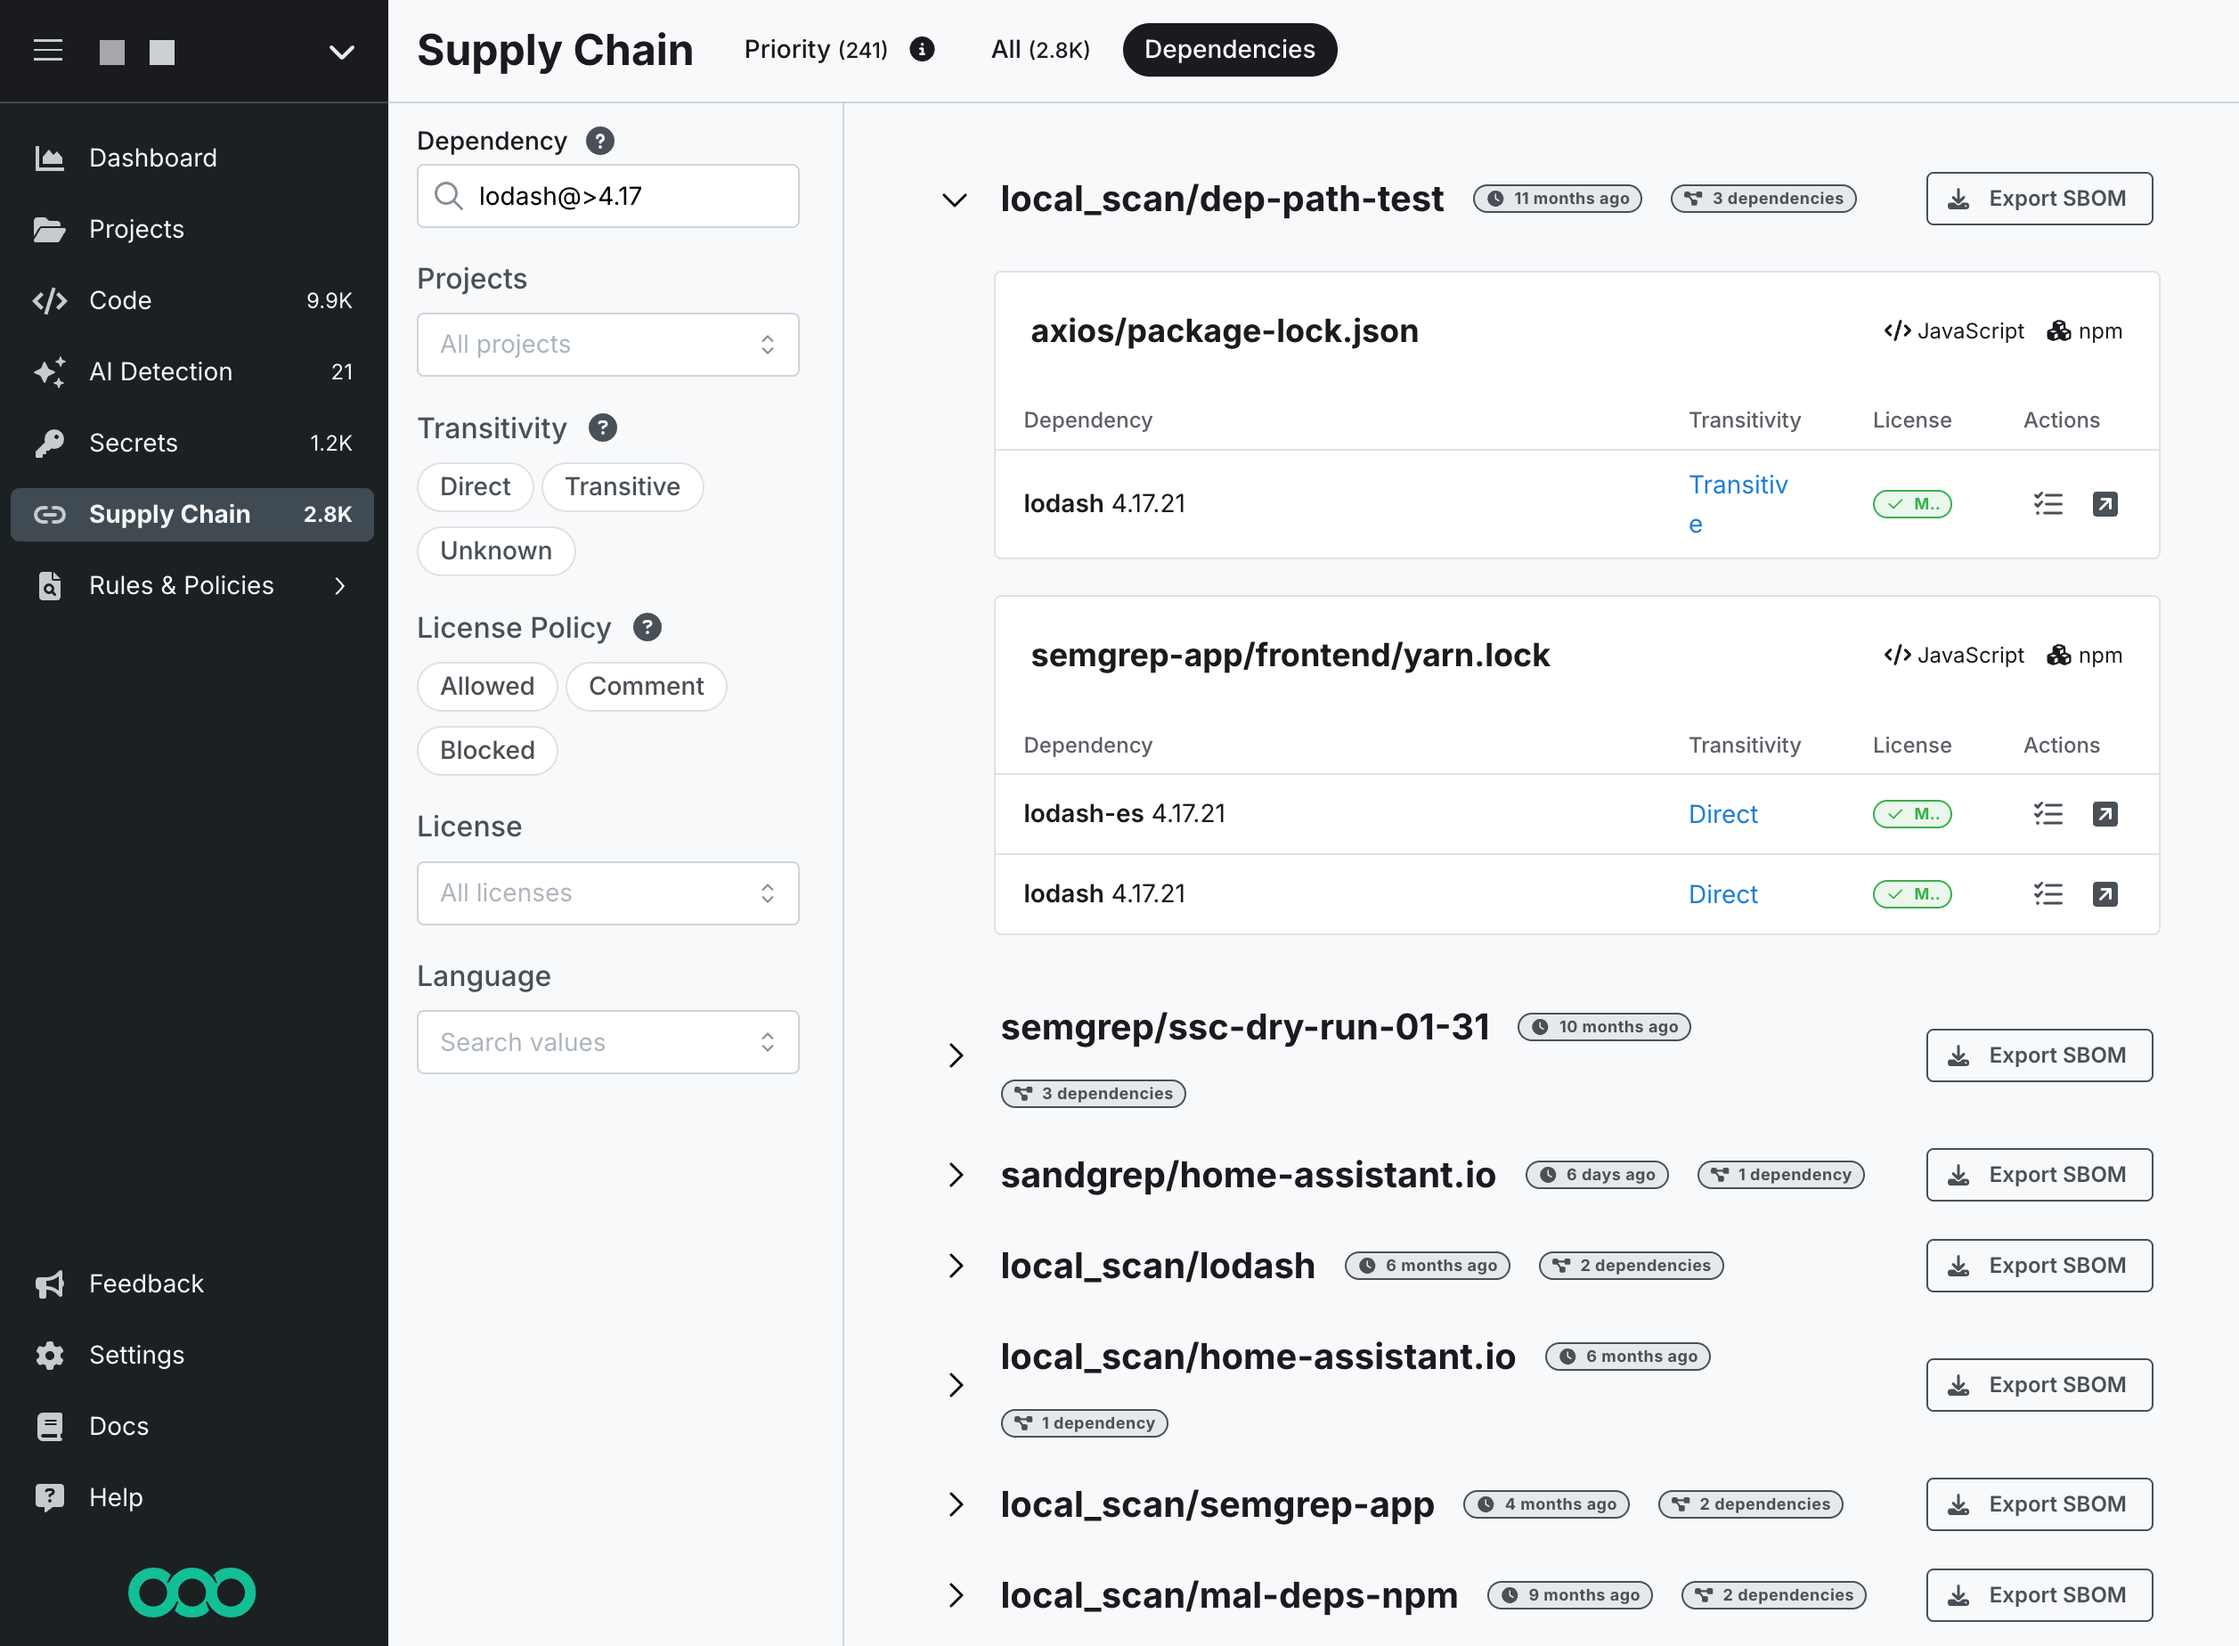
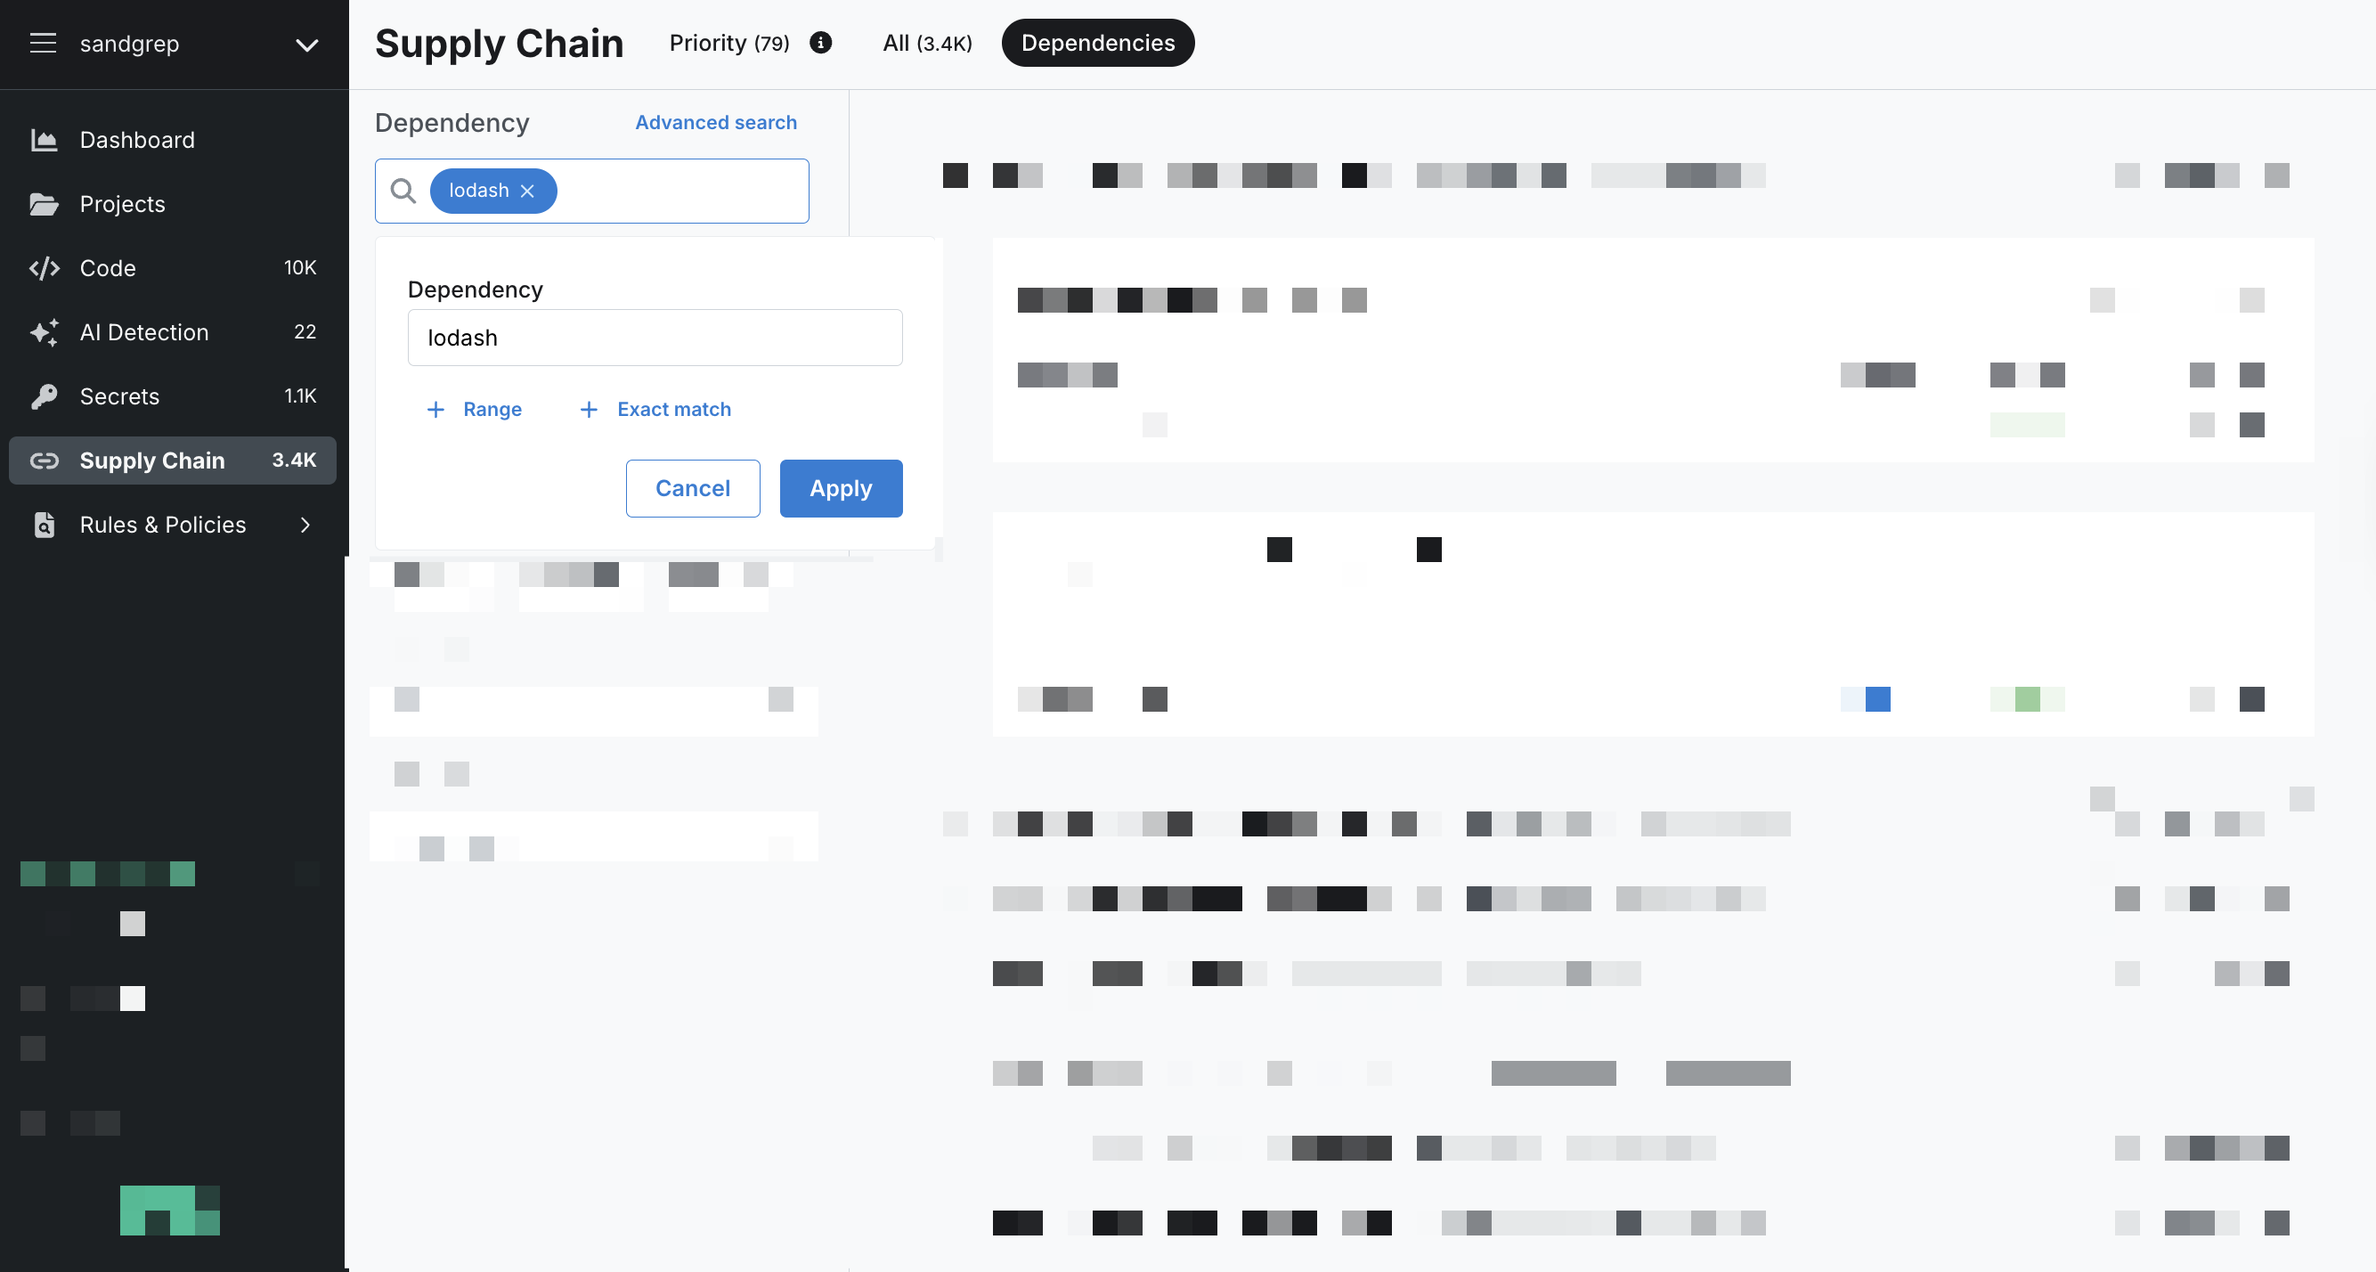
update KB

diff --git a/docs/kb/semgrep-supply-chain/incident-response.md b/docs/kb/semgrep-supply-chain/incident-response.md
@@ -12,22 +12,38 @@ This document describes how to respond to a malicious dependency incident using 
 
 Semgrep maintains a record of the dependencies in your project that is updated whenever a full scan runs. As soon as you have reason to be concerned, check this record to see if those packages and versions were present in your environment at the time of the scan.
 
-You can do this in Semgrep AppSec Platform using the [**Dependencies** tab](https://semgrep.dev/orgs/-/supply-chain/t/dependencies) and its dependency search functionality and/or via the Semgrep API.
+You can do this in Semgrep AppSec Platform using the [**Dependencies** tab](https://semgrep.dev/orgs/-/supply-chain/t/dependencies) and its dependency search functionality or through the Semgrep API.
 
 ### Find malicious versions of packages with dependency search
 
-The [dependency search](https://semgrep.dev/orgs/-/supply-chain/t/dependencies) supports:
+The [dependency search](https://semgrep.dev/orgs/-/supply-chain/t/dependencies) allows you to search:
 
-- Finding a package through substring matching
-- Finding a specific package using the `@` syntax
-- Finding all packages with versions greater or less than a specified version using the `<` or `>` operands
+- For a package using its name, such as `gitdb2`
+- For a specific version of a package
+- For a range of versions, such as `tar` versions between 4.0 and 5.0
 
-For example, to find all versions of `lodash` that are greater than version 4.17, enter `lodash@>4.17` :
+To search for dependencies:
+
+1. Enter the dependency name and press **Enter** or **Return**. This returns a list of matches, but you can then filter your results further by version number:
+   1. Click the name of your dependency to open the **Dependency** dialog:
+   2. To search for a **specific version** of a package, click **Exact match**, then enter the **version** number.
+   3. To search for a **range of versions**, click **Range**, then enter the minimum and maximum versions.
+   4. Click **Apply** to save your changes and see your results.
+
+You can also use the **Advanced search** to search for dependencies:
+
+1. Click **Advanced search**.
+2. Enter the **Dependency** name.
+3. To specify a **version** number, click **Exact match**. For a range, click **Range** and provide the minimum and maximum versions.
+4. **Optional**: to search for a **specific version** of a package, click **Exact match**, then enter the **version** number.
+5. **Optional**: to search for a **range of versions**, click **Range**, then enter the minimum and maximum versions.
+
+You can search for multiple packages simultaneously.
 
 ![Sample dependency search for lodash4.17 or later.](/img/ssc-incident-1.png#md-width)
-_**Figure**. Sample dependency search for lodash4.17 or later._
+_**Figure**. Sample dependency search for lodash._
 
-You can also use a URL like this: https://semgrep.dev/orgs/my_company/supply-chain/t/dependencies?q=lodash%40%>4.17
+You can also use a URL like this: https://semgrep.dev/orgs/-/supply-chain/t/dependencies?q=lodash%40%>4.17
 
 ### Find malicious versions of packages using the Semgrep API
 
@@ -114,7 +130,7 @@ You can then download the SBOM from the provided URL.
 
 For all major security incidents, the Semgrep Security Research team responds within one business day, typically within four hours, and delivers rules to all customer accounts to check for malicious package versions.
 
-Due to time zones, holidays, and the sometimes subjective nature of incident severity, please contact [Semgrep support](/docs/support) to verify that we are actively working on a rule in response to a malware incident.
+Due to time zones, holidays, and the sometimes subjective nature of incident severity, contact [Semgrep support](/docs/support) to verify that we are actively working on a rule in response to a malware incident.
 
 Otherwise, wait for a notification from Semgrep through regular channels, such as Slack, that the rules related to the incident have been deployed.
 
@@ -147,7 +163,6 @@ In the directory where you want to run the scan, choose one of the following com
 
 - Run `semgrep ci --supply-chain` if the repository is checked out using Git. This uploads findings to Semgrep AppSec Platform. Note: to view findings in the Semgrep AppSec Platform, you must be logged in before running a scan. Log in by running `semgrep login`.
 - Run `semgrep scan --config supply-chain .` if you want to scan without a Git checkout. In this mode, findings are available for local review and are not sent to the Semgrep AppSec Platform.
-
 
 ### Scan results
 
